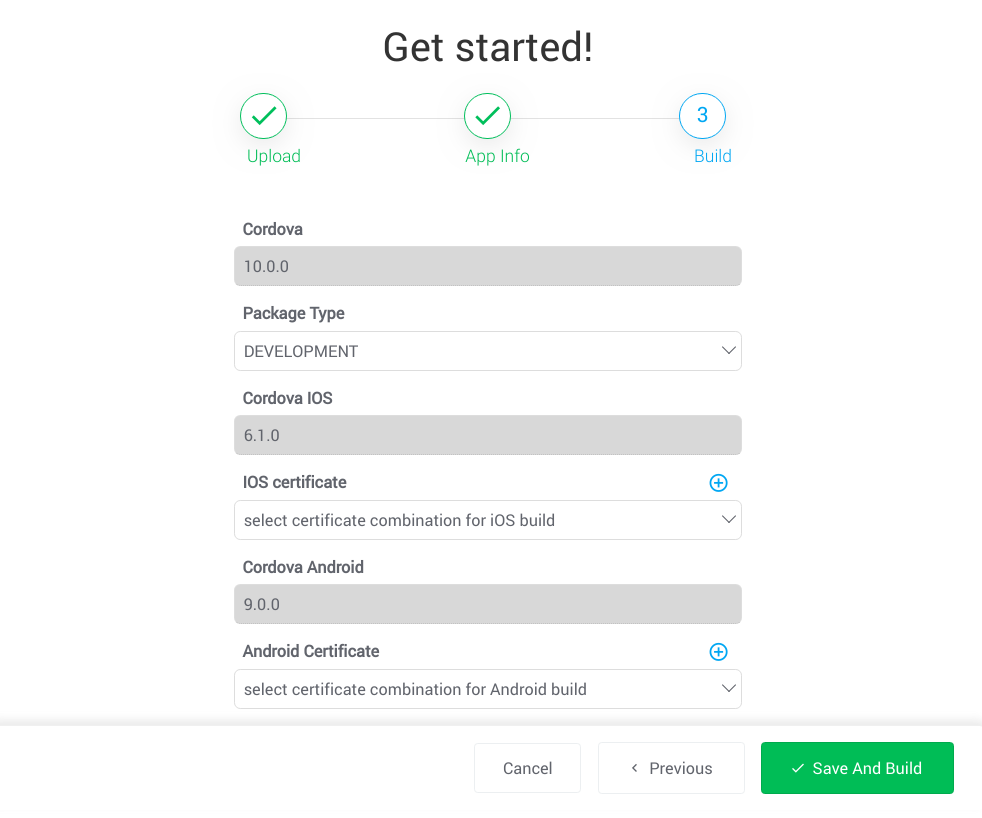
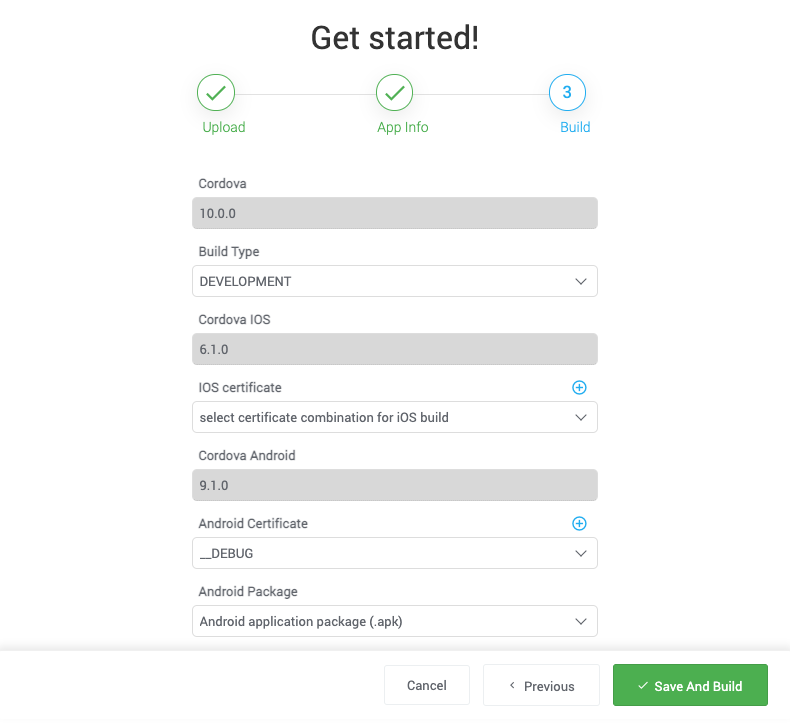
Added blog about aab support and also changed relavant documentation.

diff --git a/website/blog/2021-07-19-aab-support.md b/website/blog/2021-07-19-aab-support.md
@@ -1,0 +1,45 @@
+---
+title: "Generating .aab files using wm-cordova-cli or AppChef"
+author: Srinivasa Rao Boyina
+---
+
+Android App Bundle (aab) is a new and an alternate to Android application package (apk). 
+Google introduced this format mainly to reduce the size of installer for end users. Please check [this](https://developer.android.com/platform/technology/app-bundle) post from Google to learn about aab. Starting from @wavemaker/wm-cordova-cli@2.0.0, generation of aab files from WaveMaker mobile projects is supported.  
+
+<!-- truncate -->
+
+## Bundle Tool
+
+An **aab** file cannot be installed directly on a device. This is a format for publishing to Play Store. For development, **apk** can still be used. Incase if you want to install aab file, apk file has to be generated from aab file. Google released a tool called bundle tool to help developers in this regard. BundleTool is a jar file (requires Java8 or higher) that can be downloaded from [here](https://github.com/google/bundletool/releases). After downloading the jar, create an alias (in Linux or MAC) as follows in bashrc. 
+
+```
+alias bundletool="java -jar BUNDLE_TOOL_JAR_PATH"
+```
+
+Example command to generate apk file:
+```
+ bundletool build-apks --bundle="./people_wavemaker(0.0.1).debug.aab" --output="./people_from_aab.apks"
+```
+
+
+Example command to install apk on a connected device
+```
+bundletool install-apks --apks="./people_from_aab.apks"
+```
+
+For more commands supported by bundletool, check this [link](https://developer.android.com/studio/command-line/bundletool).
+
+
+## wm-cordova-cli breaking change
+
+Previously, **packageType** is an argument in the build command to specify the type of build (development or production). This argument is renamed to **buildType** in 2.0.0. Now, **packageType** is used to specify the type of package. For Android build, options available under packageType are **bundle** (for aab) and **apk**. Since, ipa is the only format available for ios apps, there is no **packageType** option for ios build.
+
+## Changes in AppChef
+
+In the build step of creating a new cordova build, a new dropdown is introduced to capture User's choice of Android Package. This dropdown is only visible when a ceretificate for Android build is selected. This dropdown has only two options (aab and apk). If the build type is **development**, then Android package is set as **apk**. If the build type is **production**, then Android package is set as **aab**. Users can override the default behaviour with their choice.
+
+![aab support in Appchef](/learn/assets/aab_support_in_appchef.png)
+
+
+## Google Anouncement
+Starting from August 1st 2021, Google Play Store will allow only new app submissions in **aab** format. Check the Google Anouncement [here](https://android-developers.googleblog.com/2021/06/the-future-of-android-app-bundles-is.html).

diff --git a/learn/hybrid-mobile/mobile-build-appchef.md b/learn/hybrid-mobile/mobile-build-appchef.md
@@ -53,11 +53,12 @@ In this step, you can provide a distribution profile and choose certificates of 
 | Options | Description |
 |---|---|
 |Cordova | This is the cordova version that is required by the uploaded app. This cannot be modified.|
-|Package Type | There are two options, 1) Development and 2) Production. Choose ‘Development’ to create a debuggable app -- typically for testing. Choose ‘Production’ to create an apk or ipa to distribute on play store or app store.|
+|Build Type | There are two options, 1) Development and 2) Production. Choose ‘Development’ to create a debuggable app -- typically for testing. Choose ‘Production’ to create an apk or ipa to distribute on play store or app store.|
 |Cordova IOS | This is the cordova-ios version that is required by the uploaded app. This cannot be modified.|
-|IOS Certificate | In this option, either you have to choose already uploaded certificates or you can [upload a new one](#manage-or-upload-certificates). Choose the right certificate that supports ‘Package Type’ selected.|
+|IOS Certificate | In this option, either you have to choose already uploaded certificates or you can [upload a new one](#manage-or-upload-certificates). Choose the right certificate that supports ‘Build Type’ selected.|
 |Cordova Android | This is the cordova-android version that is required by the uploaded app. This cannot be modified|
-|Android Certificate | In this option, A default  _DEBUG certificate is available to generate an android application. _DEBUG certificate can only support ‘Development’ package type. You can either choose already uploaded certificates or you can [upload a new one](#manage-or-upload-certificates). Choose the right certificate that supports ‘Package Type’ selected.|
+|Android Certificate | In this option, A default  _DEBUG certificate is available to generate an android application. _DEBUG certificate can only support ‘Development’ build type. You can either choose already uploaded certificates or you can [upload a new one](#manage-or-upload-certificates). Choose the right certificate that supports ‘Build Type’ selected.|
+|Android Package | This option will be visible only if Android certificate is selected. This dropdown has only two options (aab and apk). If the build type is development, then Android package is set as apk. If the build type is production, then Android package is set as aab. Users can override the default behaviour with their choice.|
 
 Provide the required options and click Save and Build to start building the application.
 
